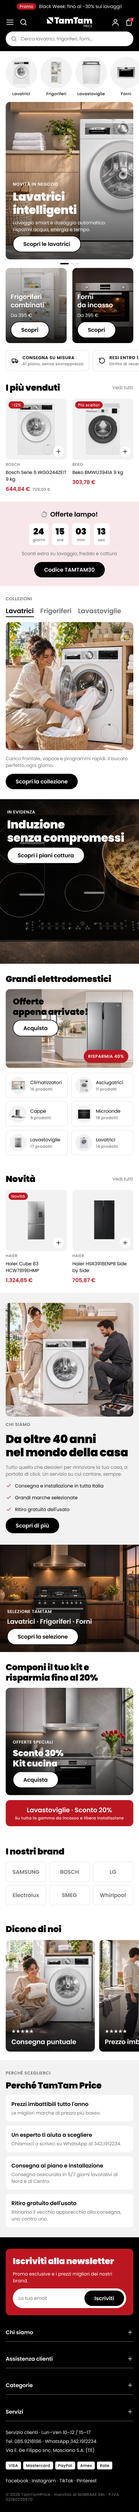
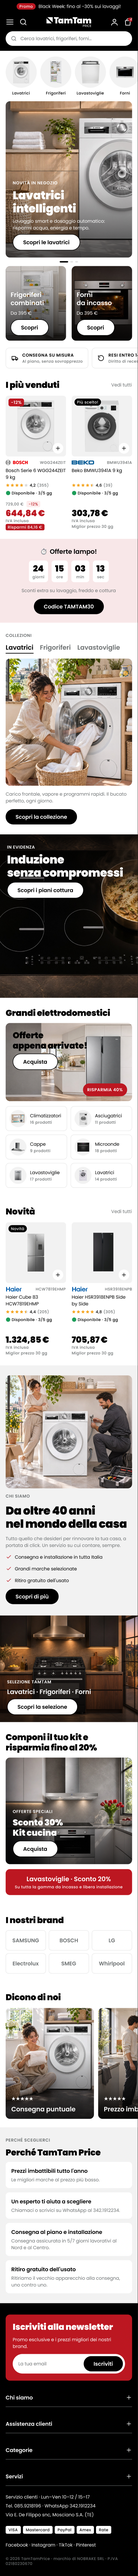
TamTam: enriched product cards and grid/list view
- New card component sets (desktop/mobile, grid/list, Offerta=Sì/No) with
  brand logo, SKU, review stars, availability traffic light, stronger
  discount (badge, struck price, red sale price, savings) and VAT note
- All 51 card instances migrated; desktop homepage carousels rebuilt with
  the new card; old card components removed
- Grid/list selector and new list boards 02b (desktop) and M02b (mobile),
  wired in the prototype
- Docs: docs/figma/product-cards.md, renders

Claude-Session: https://claude.ai/code/session_01DzDcr4Xa4AaqXv1Nbqd2T5

diff --git a/docs/figma/product-cards.md b/docs/figma/product-cards.md
@@ -1,0 +1,65 @@
+# TamTam Price: enriched product cards and grid/list view (2026-11-16)
+
+Only the `TAMTAM PRICE` page (`0:1`) was changed. MisterCucina and Trovaincasso still use their old cards.
+
+## What a card shows now
+
+| Content | How |
+|---|---|
+| Brand logo | Nested instance `Logo marca` (exposed: pick the brand from the card's properties) |
+| SKU / product code | Text prop `SKU` ("Cod. WGG244ZEIT"; on the list card also the EAN) |
+| Review stars | Nested instance `Stelle` (Valutazione 5 / 4.5 / 4 / 3.5) + props `Voto` ("4,6") and `N. recensioni` |
+| Availability traffic light | Nested instance `Disponibilità`: **green** Disponibile, **yellow** Su ordinazione (about 30 days), **red** Non disponibile |
+| Discount, stronger | Variant `Offerta=Sì`: red `-12%` badge on the photo, struck-through full price with a `-12%` pill, big red sale price, red chip "Risparmi 84,16 €" |
+| No discount | Variant `Offerta=No`: big black price and "Prezzo più basso degli ultimi 30 giorni" |
+| VAT | "IVA inclusa" next to the price on every card |
+| Label | Prop `Etichetta` + `Mostra etichetta` ("Più scelto!", "Novità") |
+
+Sconto % and Risparmio were calculated from the two prices; ratings and review counts are **placeholders**.
+
+## Components (frame `Componenti card · TamTam Price`, `199:3844`, above the PLP board)
+
+| Component set | Node | Notes |
+|---|---|---|
+| `Card prodotto · griglia` | `202:3953` | 300 px desktop; stretches (homepage uses 324 px). Replaces the old `Card prodotto` (`36:20`, deleted) |
+| `Mobile / Card prodotto · griglia` | `202:4071` | 171 px. Replaces the old `Mobile / Card prodotto` (`110:994`, deleted) |
+| `Card prodotto · lista` | `204:4119` | 1302 px desktop list row: photo, details (specs, energy class, services, Confronta), buy box (price, availability, estimated delivery, shipping cost, add to cart, favourites). Extra props: `Caratteristiche`, `Classe energetica`, `Consegna`, `Spedizione` |
+| `Mobile / Card prodotto · lista` | `204:4231` | 358 px: photo left, short specs line, availability, price |
+| `Logo marca` | `200:3930` | Marca × Taglia (M 20 px, S 14 px). Bosch, Beko, Electrolux, Smeg, Haier are SVGs from Wikimedia Commons; **Candy, Indesit, Foster are text placeholders**, replace them with the official logos |
+| `Stelle recensioni` | `199:3982` | Valutazione × Taglia |
+| `Disponibilità` | `199:4001` | Stato × Taglia |
+| `Selettore vista` | `208:6425` | Vista=Griglia/Lista × Taglia (M desktop with label, S mobile) |
+
+New variables in `Brand · TamTam Price`: `status/available` #1E9E5A, `status/backorder` #F2A900, `status/unavailable`
+#D93025, `rating/star` #F5A623, `rating/empty` #D9D9D9, `price/save-bg` #FDECEC.
+
+## Where the cards are used
+
+All 51 existing instances were migrated (PLP 02, category 07, search 09, PDP 03 related products, mobile M01, M02,
+M03, M09, M11). On the **desktop homepage** the 10 imported cards of "I più venduti" and the second product carousel
+were replaced with `Card prodotto · griglia` instances; the two sections grew by 147 px each and everything below was
+moved down (homepage now 10 290 px tall). The old colour-swatch dots on those cards are gone (no variants).
+
+Examples of the three states: PLP 02 shows Disponibile, Su ordinazione (Beko WIT8A4BW) and Non disponibile (Indesit IM
+862, button "Avvisami quando torna").
+
+## Grid / list view
+
+| Board | Node |
+|---|---|
+| 02 PLP Lavatrici · griglia (existing) | `36:38` (selector added in the toolbar) |
+| **02b PLP Lavatrici · vista lista** | `208:6453` (x 24623, after board 12) |
+| M02 Categoria · griglia (existing) | `112:1186` (selector added next to Filtri / Ordina) |
+| **M02b Categoria · vista lista · mobile** | `208:7776` (mobile row, column 14) |
+
+Prototype: the selector switches between the grid and list boards (desktop and mobile); cards open the product page;
+"Aggiungi al carrello" opens the cart drawer.
+
+Renders: `docs/screenshots/after/tamtam-price-02-plp.png`, `-02b-plp-lista.png`, `-01-home.png`, `-09-ricerca.png`,
+`-componenti-card.png`; `docs/screenshots/mobile/tamtam-price-m01-home.png`, `-m02-plp.png`, `-m02b-plp-lista.png`.
+
+## To confirm
+
+- Real ratings and review counts (from the review app), EAN codes, delivery estimates and the shipping cost per category.
+- Official logos for Candy, Indesit and Foster (and any other brand added later).
+- Specs on the list card are derived from the product names (capacity, spin speed); check them against the data sheets.

diff --git a/docs/figma/prototype.md b/docs/figma/prototype.md
@@ -14,7 +14,7 @@ Renders: `docs/screenshots/after/` (the template originals are in `docs/screensh
 | Text styles | `TamTam Price/*`, `MisterCucina/*`, `Trovaincasso/*` | 12 per brand: Display, H1–H4, Body, Body Strong, Small, Label, Button, Price, Caption |
 | Product photos | page `ASSETS · Foto prodotto` | 48 photos from trovaincasso.it (white background). Reused as image fills on all three sites, multiplied over brand tints. |
 | Brand kit | frame `Brand kit · <brand>` on each page, above the homepage | Logo components (from `docs/DESIGN`), colour swatches bound to the variables, type specimen |
-| Components | frame `Componenti · <brand>` next to the brand kit; header/footer stay on the homepage | `Bottone / Primario`, `Bottone / Secondario` (TEXT prop `Etichetta`), `Card prodotto` (props: Nome, Marca, Prezzo, Prezzo barrato, Mostra prezzo barrato, Badge, Mostra badge, Disponibilità; swap the photo on the `Immagine` layer). `Header / Barra annunci`, `Header / Principale`, `Footer / Contatti`, `Footer` were converted **in place** on the homepage, so editing the homepage header or footer updates every board. |
+| Components | frame `Componenti · <brand>` next to the brand kit; header/footer stay on the homepage | `Bottone / Primario`, `Bottone / Secondario` (TEXT prop `Etichetta`), `Card prodotto` (props: Nome, Marca, Prezzo, Prezzo barrato, Mostra prezzo barrato, Badge, Mostra badge, Disponibilità; swap the photo on the `Immagine` layer; on TamTam replaced on 2026-11-16 by `Card prodotto · griglia` / `· lista`, see [product-cards.md](product-cards.md)). `Header / Barra annunci`, `Header / Principale`, `Footer / Contatti`, `Footer` were converted **in place** on the homepage, so editing the homepage header or footer updates every board. |
 
 ## TamTam Price: page `TAMTAM PRICE` (`0:1`), Hyper Nexvo
 

diff --git a/CLAUDE.md b/CLAUDE.md
@@ -53,6 +53,10 @@ Full-page renders: `docs/screenshots/after/*.png` (current) and `docs/screenshot
   - Each page has new boards 06–12: megamenu, L1 category, cart page with invoice request, search, sign in, orders, shipping.
   - Details, node ids and open points are in [docs/figma/pages-b2c.md](docs/figma/pages-b2c.md).
   - Mobile screens M08–M14 (2026-11-13) mirror boards 06–12; ids in [docs/figma/mobile.md](docs/figma/mobile.md).
+- **TamTam product cards (2026-11-16, TamTam page only):** new card sets `Card prodotto · griglia` / `· lista` and
+  `Mobile / Card prodotto · griglia` / `· lista` (brand logo, SKU, stars, availability traffic light, stronger discount
+  with savings, "IVA inclusa"), plus grid/list boards 02b and M02b. The old `Card prodotto` components were deleted.
+  Details in [docs/figma/product-cards.md](docs/figma/product-cards.md).
 - **Theme code (2026-11-13):** `shopify/invoice-request/` holds the cart "Richiedi fattura" block (Liquid snippet + JS +
   tests, `node --test shopify/invoice-request/tests/*.test.*`). It is the only code in the repo.
 - **Access and limits:** the file lives in the *Alessandro Molinari DWAY* team (Education plan). The connector is

diff --git a/docs/figma/mobile.md b/docs/figma/mobile.md
@@ -23,7 +23,7 @@ Renders: [../screenshots/mobile/](../screenshots/mobile/) (`<brand>-mobile-overv
 |---|---|
 | `Mobile / Barra annunci` | 36 px, inverse surface |
 | `Mobile / Header` | Menu, search, logo, account, cart with count. Its prototype links (menu → drawer, cart → cart, logo → home) are set on the component, so they work on every screen |
-| `Mobile / Card prodotto` | 171 px. Props: Nome, Marca, Prezzo, Prezzo barrato, Mostra prezzo barrato, Badge, Mostra badge (Trovaincasso also has Disponibilità). Swap the photo on the `Immagine` layer |
+| `Mobile / Card prodotto` | TamTam: replaced on 2026-11-16 by `Mobile / Card prodotto · griglia` and `· lista` ([product-cards.md](product-cards.md)). 171 px. Props: Nome, Marca, Prezzo, Prezzo barrato, Mostra prezzo barrato, Badge, Mostra badge (Trovaincasso also has Disponibilità). Swap the photo on the `Immagine` layer |
 | `Mobile / Footer` | Newsletter card, accordion links, contacts, payments, legal line |
 
 ## Screens and node ids
